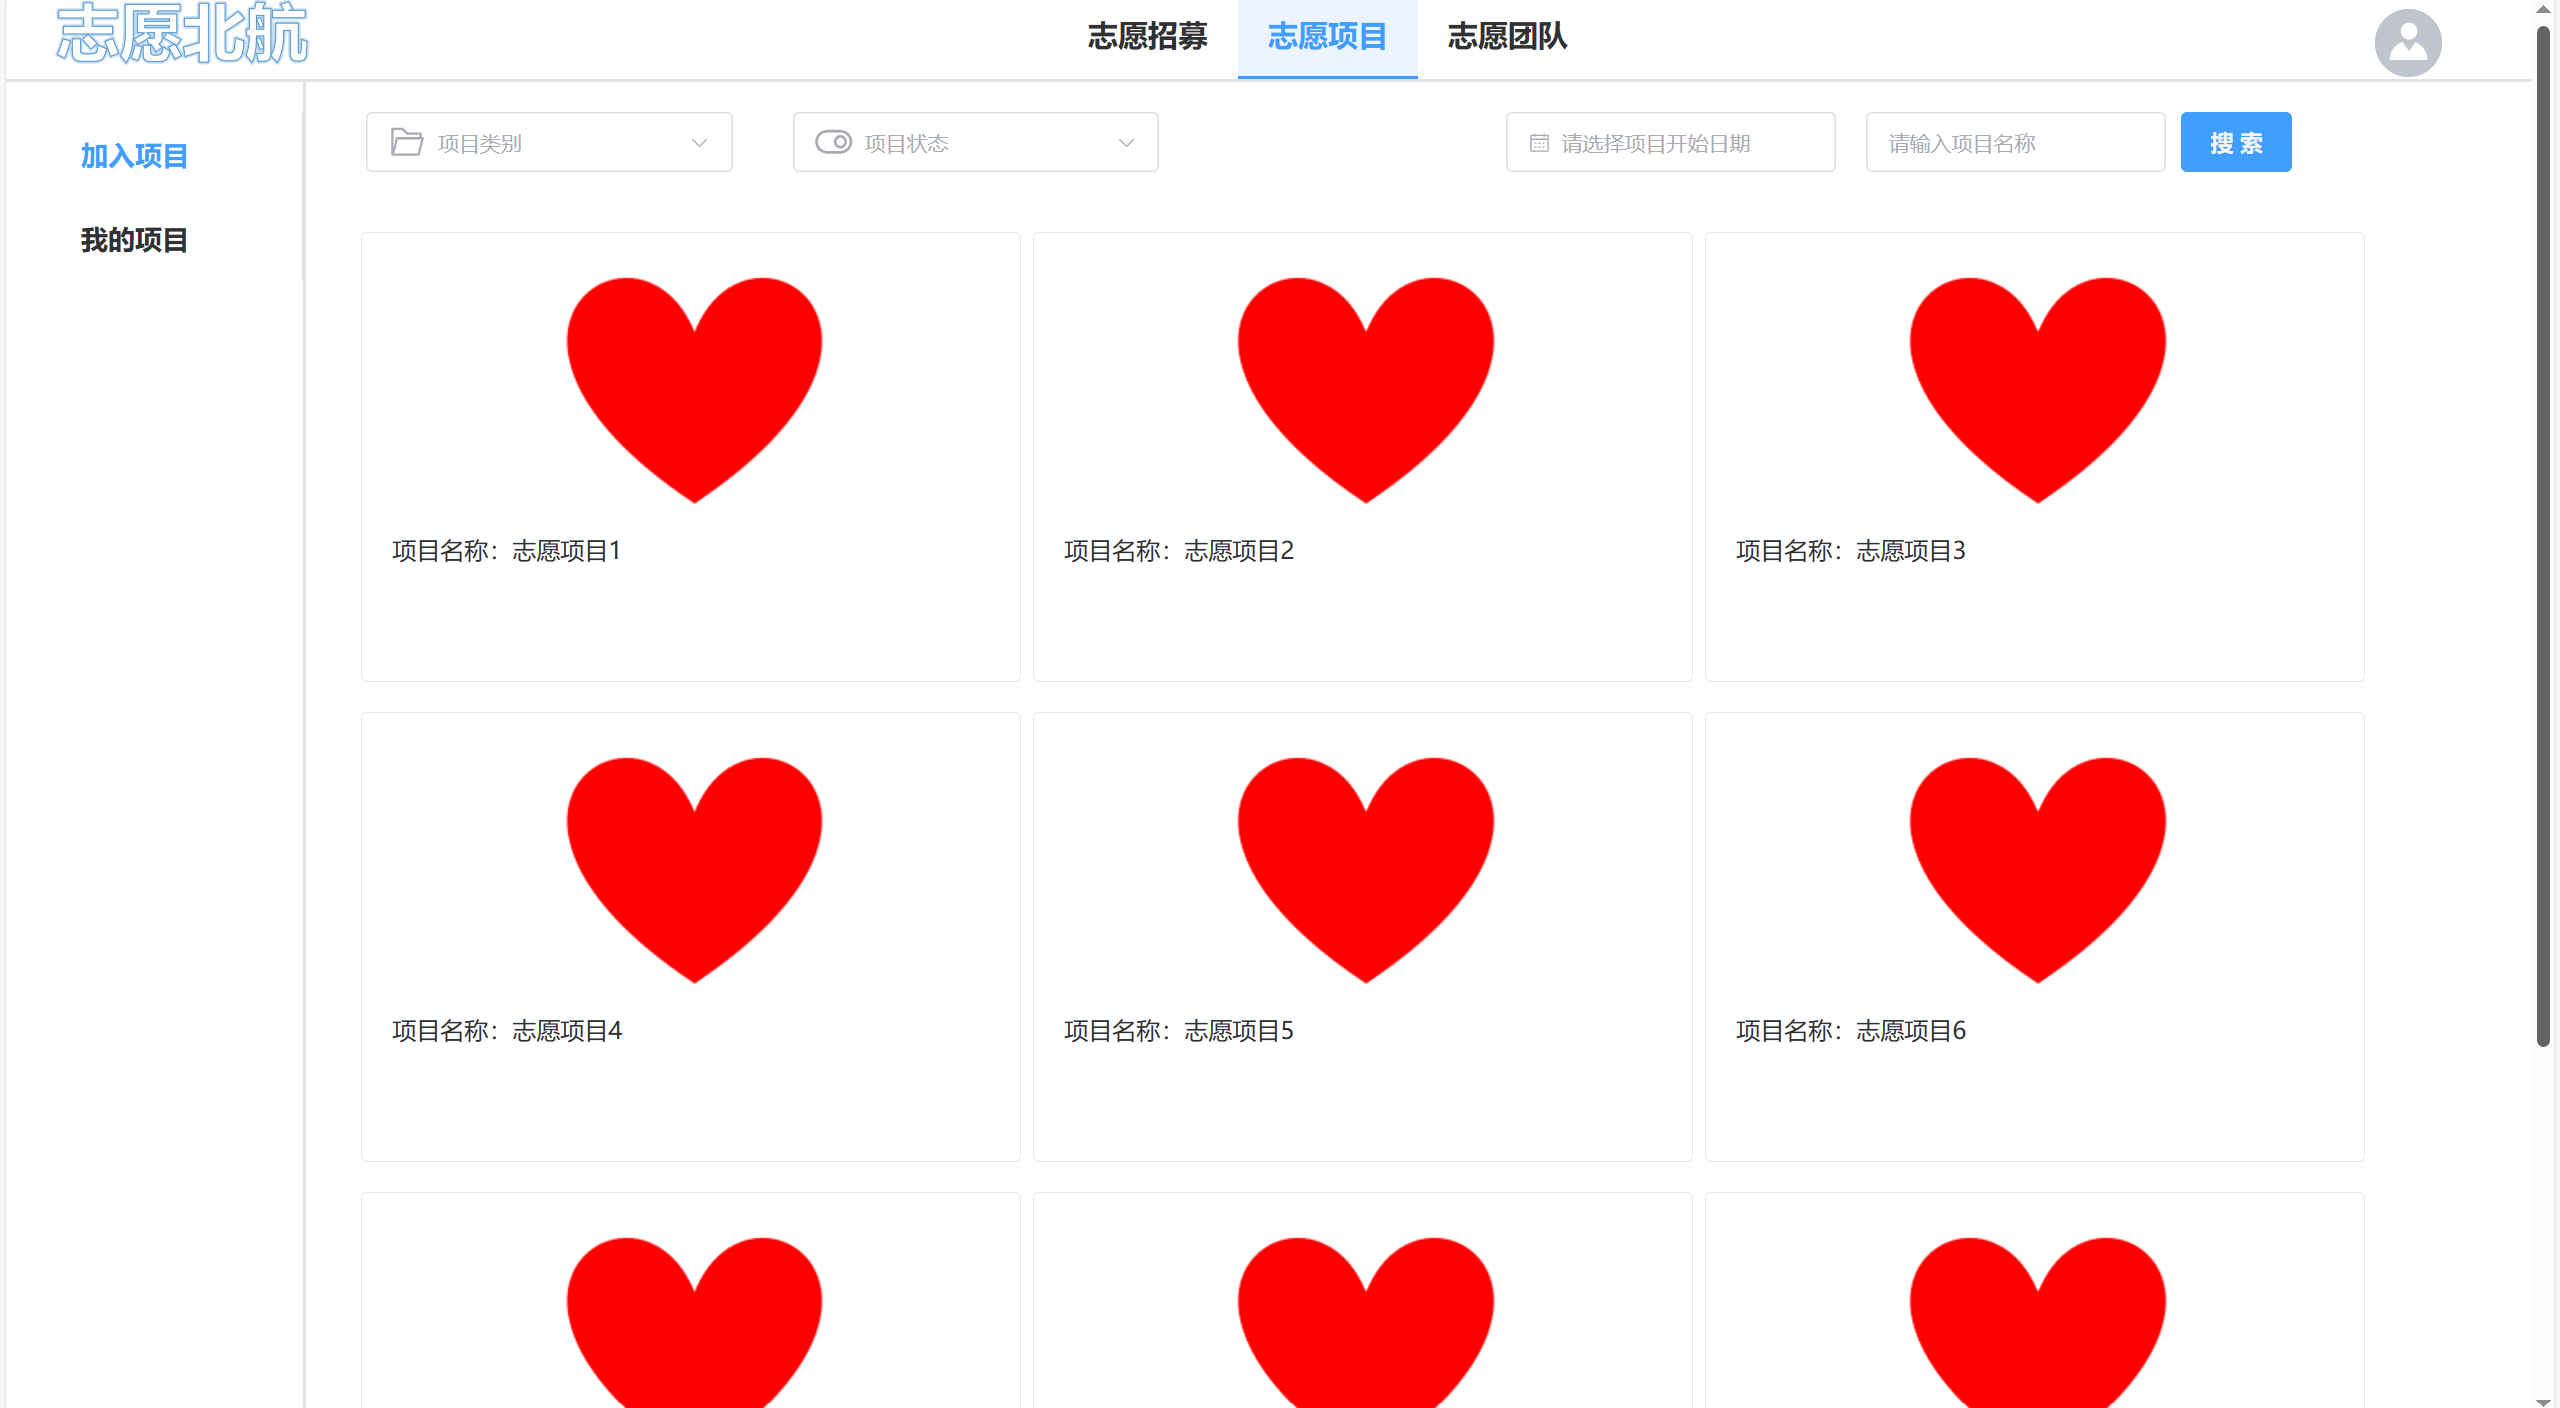
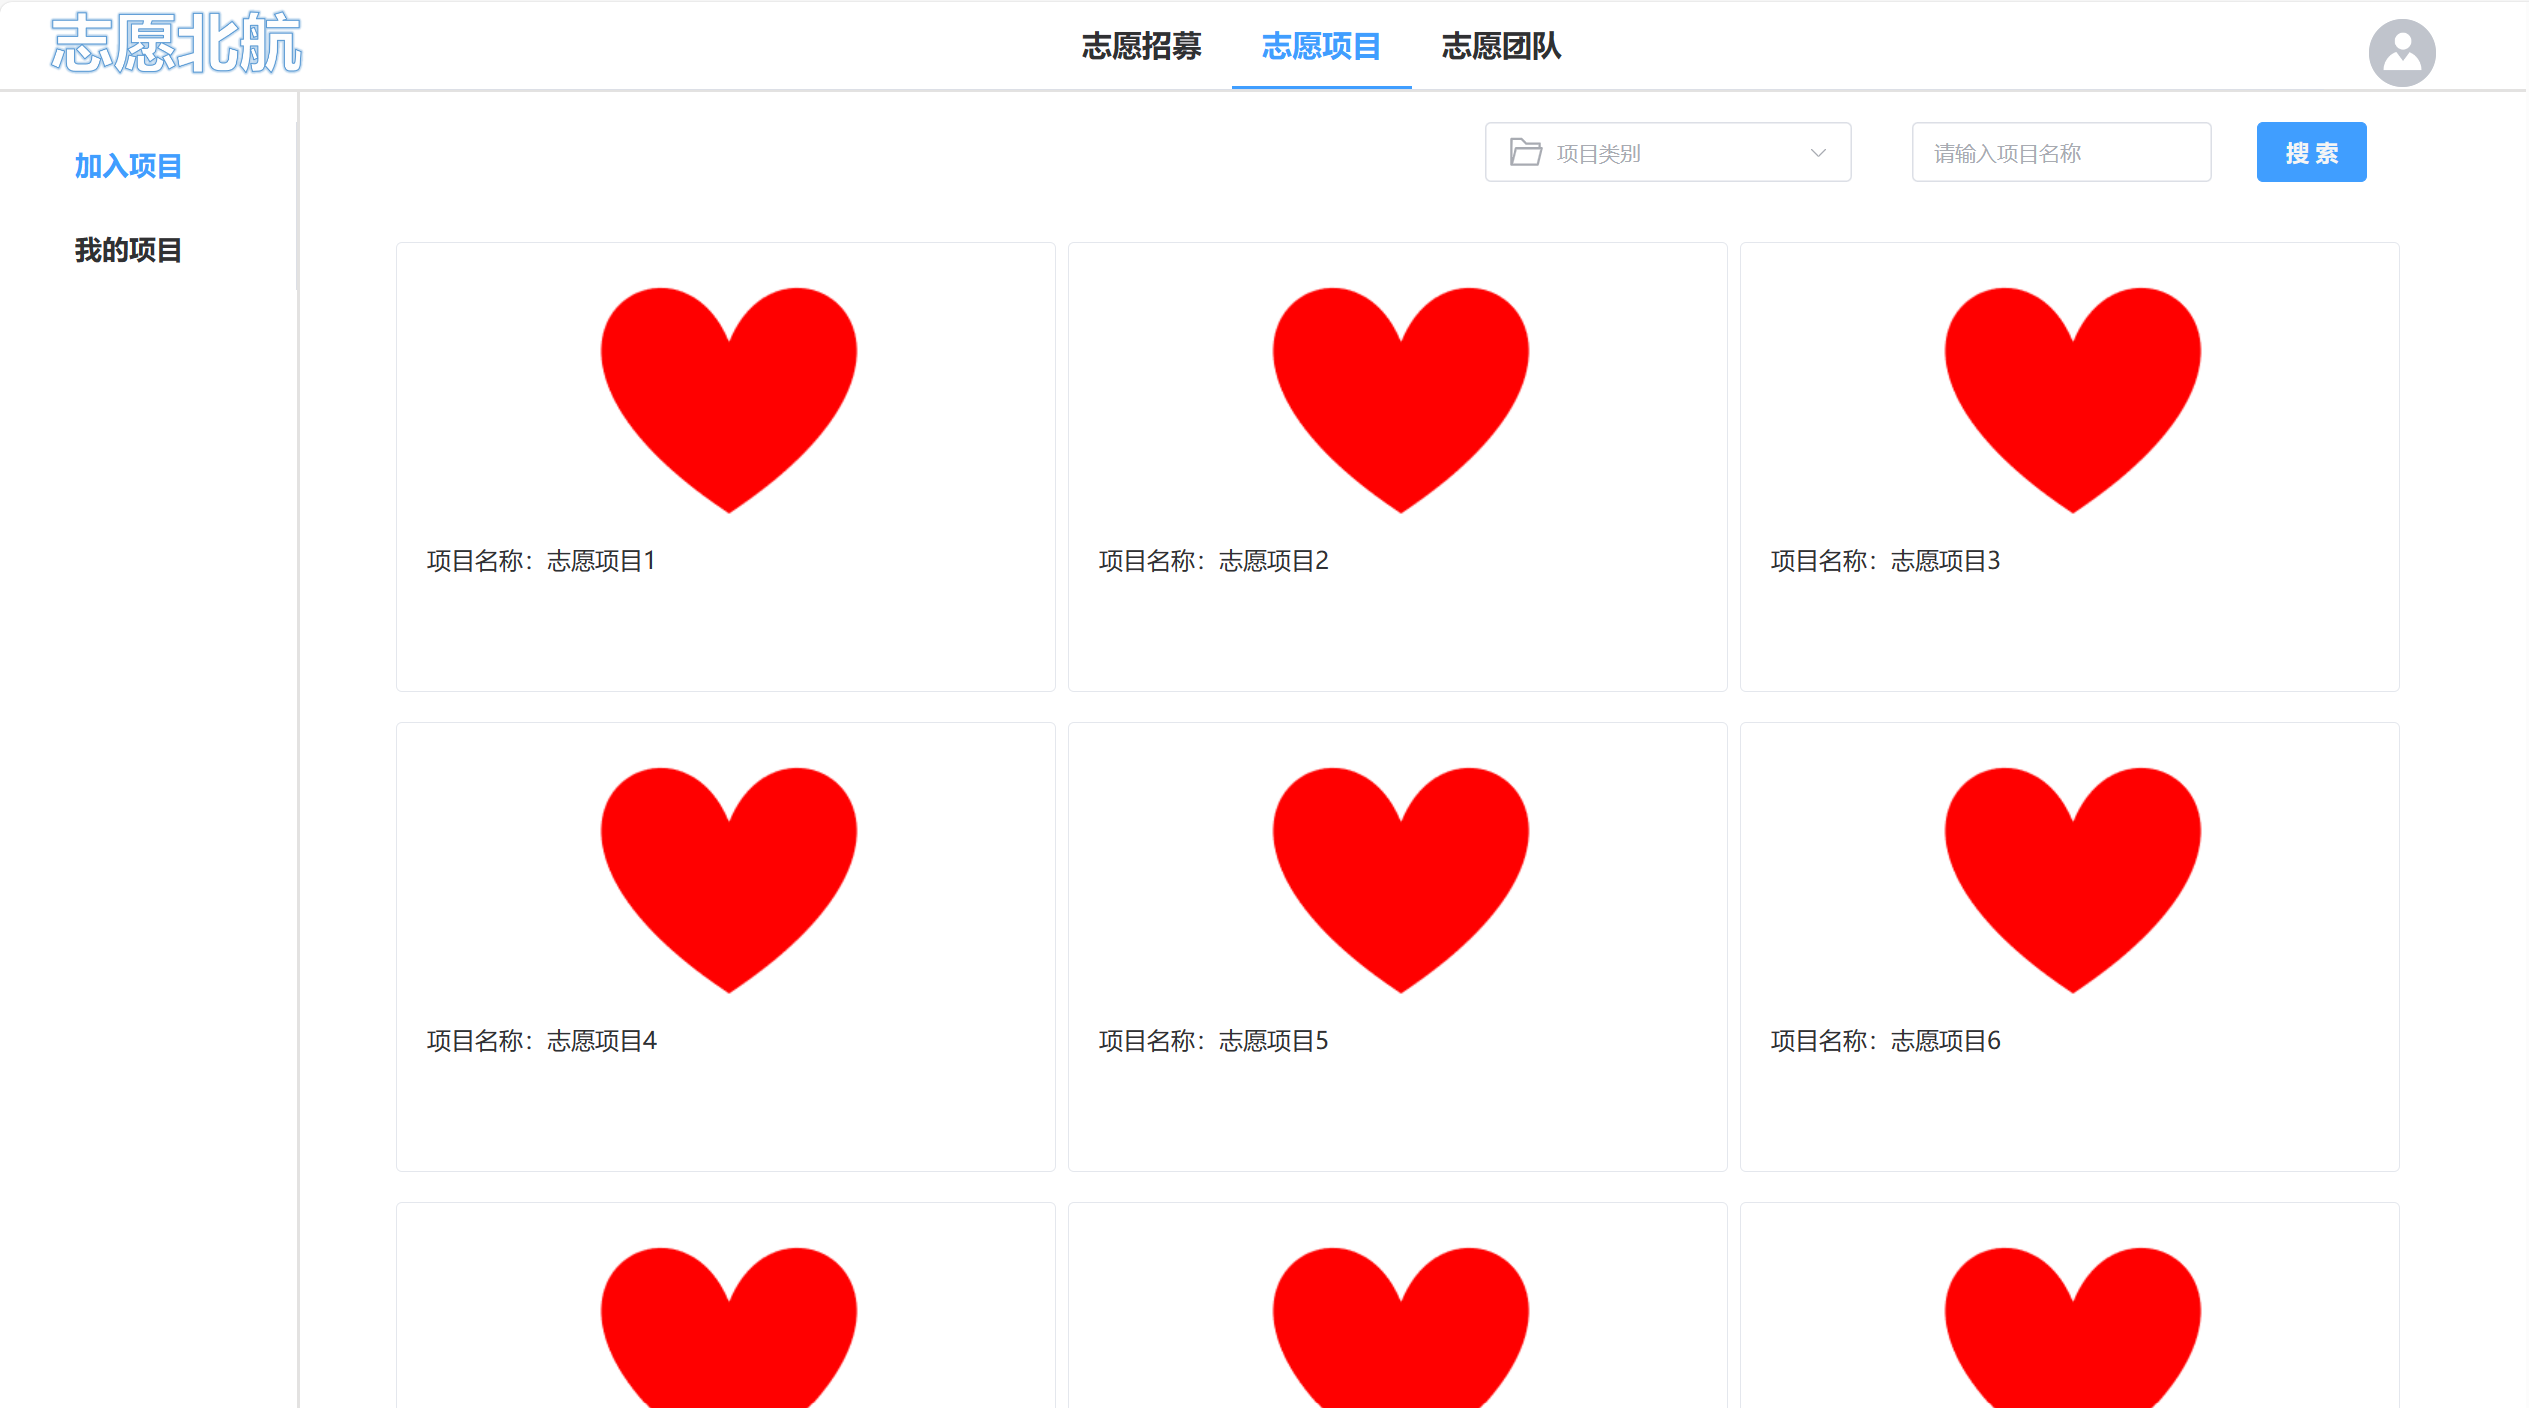
接口测试1

diff --git a/frontend/src/views/JoinProjectPage.vue b/frontend/src/views/JoinProjectPage.vue
@@ -13,18 +13,7 @@
         <div class="content-container">
             <div class="selector-container">
                 <div class="menu-container">
-                    <el-select v-model="typeRadio" placeholder="项目类别" clearable size="large" class="select-container">
-                        <template #prefix>
-                            <el-icon class="icon-container"><FolderOpened /></el-icon>
-                        </template>
-                        <el-option
-                            v-for="item in option1"
-                            :key="item.value"
-                            :value="item.value"
-                            size="large"
-                        ></el-option>
-                    </el-select>
-                    <el-select v-model="statusRadio" placeholder="项目状态" clearable size="large" class="select-container">
+                    <!-- <el-select v-model="statusRadio" placeholder="项目状态" clearable size="large" class="select-container">
                         <template #prefix>
                             <el-icon class="icon-container"><Open /></el-icon>
                         </template>
@@ -33,11 +22,21 @@
                             :key="item.value"
                             :value="item.value"
                         ></el-option>
-                    </el-select>
+                    </el-select> -->
                 </div>
                 <div class="search-container">
                     <div class="search-item-container">
-                        <el-date-picker v-model="date" placeholder="请选择项目开始日期" size="large"></el-date-picker>
+                        <el-select v-model="typeRadio" placeholder="项目类别" clearable size="large">
+                            <template #prefix>
+                                <el-icon class="icon-container"><FolderOpened /></el-icon>
+                            </template>
+                            <el-option
+                                v-for="item in option1"
+                                :key="item.value"
+                                :value="item.value"
+                                size="large"
+                            ></el-option>
+                        </el-select>
                     </div>
                     <div class="search-item-container">
                         <el-input v-model="keyword" placeholder="请输入项目名称" clearable size="large" style="width: 200px"></el-input>
@@ -232,7 +231,7 @@ export default {
     display: flex;
     justify-content: center;
     align-items: center;
-    margin-left: 200px;
+    margin-left: 190px;
     margin-right: 100px;
 }
 

diff --git a/frontend/src/views/WelcomePage.vue b/frontend/src/views/WelcomePage.vue
@@ -246,7 +246,7 @@ export default {
       this.clearRegisterForm();
     },
     clearLoginForm() {
-      this.loginForm.username = "";
+      this.loginForm.account = "";
       this.loginForm.password = "";
       this.loginForm.userType = "普通用户";
     },
@@ -261,11 +261,24 @@ export default {
     },
 
     loginSubmit() {
-      this.$refs.loginForm.validate(valid => {
+      this.$refs.loginForm.validate(async (valid) => {
         /* 登录判断逻辑 */
         if (valid) {
           console.log("登录成功");
           ElMessage.success('登陆成功');
+          const submitParams = {
+            collegeId: this.loginForm.account,
+            password: this.loginForm.password,
+          }
+          // await this.axios({
+          //   method: 'get',
+          //   url: 'login-info/',
+          //   data: submitParams,
+          // })
+          //   .then(async(res) => {
+          //     console.log(res);
+          //   })
+
           this.$router.push({path: '/project/join'});
         }
         else {
@@ -286,7 +299,7 @@ export default {
               telephone: this.registerForm.telephone,
               userType: this.registerForm.userType,
             }
-            await this.$axios({
+            await this.axios({
               method: 'post',
               url: '',
               data: submitParams,

diff --git a/frontend/src/main.js b/frontend/src/main.js
@@ -1,6 +1,7 @@
 
 import { createApp } from 'vue'
 import axios from 'axios'
+import VueAxios from 'vue-axios'
 import App from './App.vue'
 import ElementPlus from 'element-plus'
 import 'element-plus/dist/index.css'
@@ -9,13 +10,16 @@ import * as ElementPlusIconsVue from '@element-plus/icons-vue'
 import 'vuetify/styles'
 
 import router from './router'
+import { Axios } from 'axios'
 
 const app = createApp(App)
 for (const [key, component] of Object.entries(ElementPlusIconsVue)) {
     app.component(key, component)
 }
 
+axios.defaults.baseURL = 'http://120.46.80.149'
 
 app.use(ElementPlus)
 app.use(router)
+app.use(VueAxios, axios)
 app.mount('#app')
